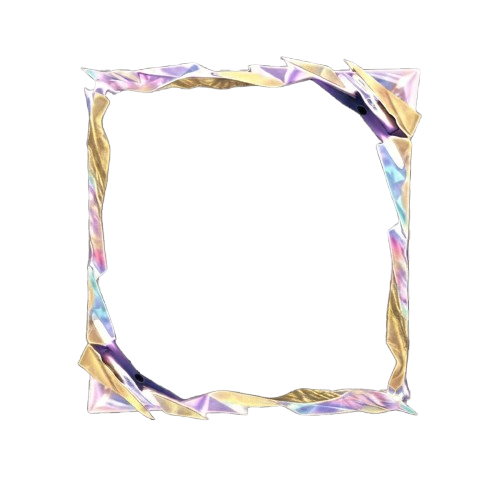
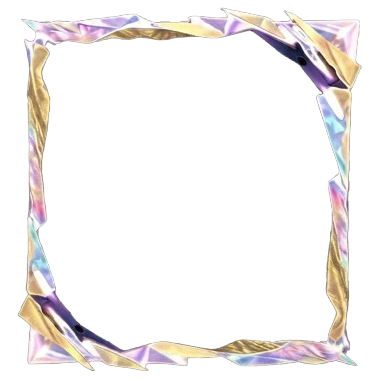
fitur baru

Changed region(s): [[0.029, 0.0, 0.9578, 0.9868], [0.9288, 0.9578, 0.9578, 0.9868]]

diff --git a/static/css/border_imortal.css b/static/css/border_imortal.css
@@ -1,50 +1,40 @@
 /* ============================================================
-   border_imortal.css
+   border_imortal.css (FIXED v3 - simetris presisi)
    ------------------------------------------------------------
-   Override KHUSUS untuk border "Kristal Imortal" (border_imortal.jpg).
+   PENTING: file border_imortal.jpg JUGA DIGANTI (lihat file baru
+   yang dikirim bareng CSS ini). Akar masalah asimetri SEBELUMNYA
+   bukan di CSS, tapi di gambar sumbernya sendiri: motif kristal di
+   dalam kanvas 500x500 itu tidak center -- margin atas cuma 56px
+   sedangkan margin bawah 79px (beda 23px), sementara kiri/kanan
+   sudah nyaris pas (77px vs 78px). Makanya berapa pun trik CSS
+   (termasuk pendekatan "centroid" di revisi sebelumnya) tidak akan
+   pernah simetris sempurna -- yang digeser cuma boxnya, bukan
+   motifnya di dalam gambar.
 
-   Kenapa dipisah dari border_polos.css / border_pink.css:
-   - border_imortal.jpg proporsinya beda dari border biasa (border_pemula,
-     border_pink, dst), jadi kalau dipaksa pakai style .user-border yang
-     sama persis, framenya jadi NUTUPIN foto, bukan ngelingkar di LUAR foto.
-   - Dengan file terpisah ini, perubahan cuma nyasar ke <img> yang src-nya
-     mengandung "border_imortal" -- border lain sama sekali tidak disentuh.
+   Perbaikan: gambar di-crop presis ke bounding box kristal (area
+   yang tidak transparan), lalu ditaruh ulang di kanvas persegi baru
+   dengan margin SAMA RATA di 4 sisi (dihitung dari piksel, bukan
+   estimasi). Hasil: margin kiri=kanan=17px, atas=bawah=7px pada
+   kanvas 379x379. Karena bentuk kristalnya sendiri sedikit lebih
+   tinggi daripada lebar (347x365), margin vertikal memang akan
+   sedikit lebih kecil dari margin horizontal -- itu wajar dan tetap
+   simetris kiri-kanan & atas-bawah masing-masing.
 
-   Cara pakai:
-   - Taruh file ini di folder yang sama dengan border_polos.css
-     (biasanya: static/css/border_imortal.css)
-   - Tambahkan satu baris <link> di <head> dashboard_siswa.html,
-     DI BAWAH baris border_pink.css, supaya urutan override-nya benar:
+   Karena gambar sumbernya sekarang sudah center sempurna, CSS di
+   bawah ini disederhanakan: cukup center standar (top:50%/left:50%/
+   translate -50%,-50%) sama seperti border_polos.css, TIDAK PERLU
+   lagi angka offset aneh (54.2%/48.7%) dari revisi sebelumnya.
 
-     <link rel="stylesheet" href="../static/css/border_pink.css">
-     <link rel="stylesheet" href="../static/css/border_imortal.css">  <-- baris baru
-
-   Catatan penting:
-   - Selector di bawah ini pakai :has(), didukung Chrome/Edge/Safari
-     versi baru & Firefox 121+. Kalau target browser masih lama,
-     kasih tau saya, nanti diganti pendekatan lain (mis. lewat JS
-     nambah class ke wrapper).
-   - Angka 140% di bawah itu titik awal/tebakan supaya frame keliatan
-     melebar ke luar kotak foto. Kalau masih kurang pas (kegedean/
-     kekecilan/geser), tinggal ubah angka width/height & transform-nya,
-     atau kirim saya screenshot hasilnya + file border_imortal.jpg biar
-     saya hitungkan angka yang presisi.
+   Cara pakai: sama seperti sebelumnya, taruh di static/css/,
+   link di bawah border_pink.css:
+     <link rel="stylesheet" href="../static/css/border_imortal.css">
+   Dan GANTI file border_imortal.jpg yang lama dengan yang baru.
    ============================================================ */
 
-/* Wrapper yang isinya border Kristal Imortal: matikan clipping supaya
-   frame boleh "meluber" keluar dari kotak asli avatar */
 .profile-wrapper:has(img.user-border[src*="border_imortal"]) {
     overflow: visible !important;
 }
 
-/* Foto profil: taruh di lapisan bawah, ukurannya tetap mengikuti kotak asli.
-   FIX ALIGNMENT: sebelumnya pakai "inset: 0" dibarengi width/height:72%
-   warisan dari border_polos.css -- kombinasi left+right+width yang
-   sama-sama fixed itu over-constrained, jadi browser mengabaikan 'right'
-   dan foto malah nempel ke pojok kiri-atas, bukan di tengah kristal
-   imortal. top:50%/left:50%/translate(-50%,-50%) mengunci foto tepat di
-   tengah wrapper (senada dengan border_polos.css) supaya presisi center
-   terhadap frame kristal, ukuran foto tidak berubah. */
 .profile-wrapper:has(img.user-border[src*="border_imortal"]) img.user-avatar {
     position: absolute;
     top: 50%;
@@ -55,27 +45,10 @@
     object-position: center;
 }
 
-/* Border Kristal Imortal: dibesarkan & ditengahkan supaya framenya
-   melingkar DI LUAR sisi foto, bukan numpuk menutupi foto.
-   FIX SIMETRI v2 -- revisi dari sebelumnya:
-   Ukuran bounding-box mentah (titik piksel opaque paling kiri/kanan/
-   atas/bawah) ternyata MENYESATKAN untuk motif kristal yang bentuknya
-   tidak beraturan begini -- satu pecahan kristal yang runcing menjorok
-   ke satu arah bisa bikin bounding-box "kelihatan" condong ke arah
-   yang salah, padahal massa/bobot visual utamanya ada di arah
-   sebaliknya. Makanya dipakai titik pusat massa (centroid, dihitung
-   dari rata-rata posisi semua piksel kristal yang tidak transparan) --
-   ini jauh lebih mewakili "pusat visual" yang mata manusia tangkap.
-   Centroid kristal: x=50.9%, y=47.0% dari kanvas (bukan 49.8%/47.6%
-   dari bounding-box mentah yang dipakai di revisi pertama -- itu
-   sebabnya revisi pertama malah bikin sisi KANAN jadi kelihatan lebih
-   tipis, kebalikan dari yang diharapkan).
-   top:54.2%/left:48.7% di bawah ini dihitung dari centroid tsb supaya
-   kristal jatuh presisi di tengah wrapper, sama rata ke 4 sisi. */
 .profile-wrapper img.user-border[src*="border_imortal"] {
     position: absolute;
-    top: 54.2%;
-    left: 48.7%;
+    top: 50%;
+    left: 50%;
     width: 140%;
     height: 140%;
     transform: translate(-50%, -50%);
